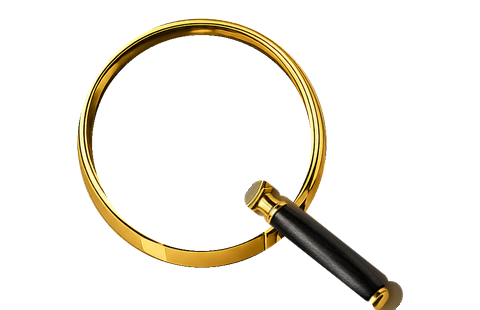
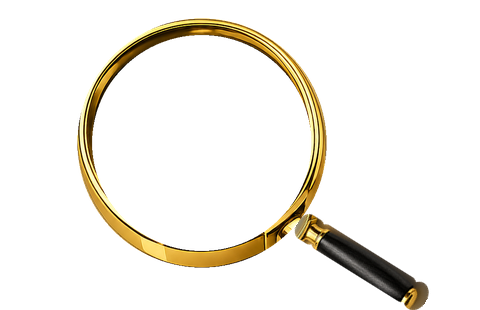
fix magnifying glass joint and globe rotation

Changed region(s): [[0.5, 0.5806, 0.9062, 1.0]]

diff --git a/index.html b/index.html
@@ -5893,7 +5893,7 @@ async function initModernGlobe(){
   const cx=202,cy=143,r=108;
   let land,borders,graticule;
   const lensOverlay=new Image();
-  lensOverlay.src='/magnifying-glass-overlay.png?v=20260610-1';
+  lensOverlay.src='/magnifying-glass-overlay.png?v=20260610-2';
   try{
     const [world]=await Promise.all([
       fetch('https://cdn.jsdelivr.net/npm/world-atlas@2/countries-50m.json').then(res=>res.json()),
@@ -5906,7 +5906,7 @@ async function initModernGlobe(){
   const projection=d3.geoOrthographic().scale(r).translate([cx,cy]).clipAngle(90);
   const geoPath=d3.geoPath(projection,ctx);
   const hubs=[[-74,40.7],[0,51.5],[103.8,1.35],[139.7,35.7],[-122.4,37.8],[151.2,-33.8],[72.8,19.1]];
-  let yaw=20,frameNo=0;
+  let yaw=20,frameNo=0,lastFrame=performance.now();
   function palette(){
     return isDark()?{
       ocean0:'#25404a',ocean1:'#122832',ocean2:'#08151d',
@@ -5918,7 +5918,7 @@ async function initModernGlobe(){
       atmosphere:'rgba(89,150,157,.25)',shade:'rgba(38,58,59,.18)'
     };
   }
-  function draw(){
+  function draw(now=performance.now()){
     const p=palette();
     ctx.clearRect(0,0,W,H);
     projection.rotate([yaw,-18,0]);
@@ -5939,7 +5939,8 @@ async function initModernGlobe(){
     ctx.restore();
     ctx.beginPath();ctx.arc(cx,cy,r-.5,0,Math.PI*2);ctx.strokeStyle=p.atmosphere;ctx.lineWidth=2.2;ctx.stroke();
     if(lensOverlay.complete)ctx.drawImage(lensOverlay,0,0,W,H);
-    yaw+=.08;frameNo++;_globeRAF=requestAnimationFrame(draw);
+    const elapsed=Math.min(80,Math.max(0,now-lastFrame));
+    lastFrame=now;yaw+=elapsed*.0075;frameNo++;_globeRAF=requestAnimationFrame(draw);
   }
   draw();
 }
